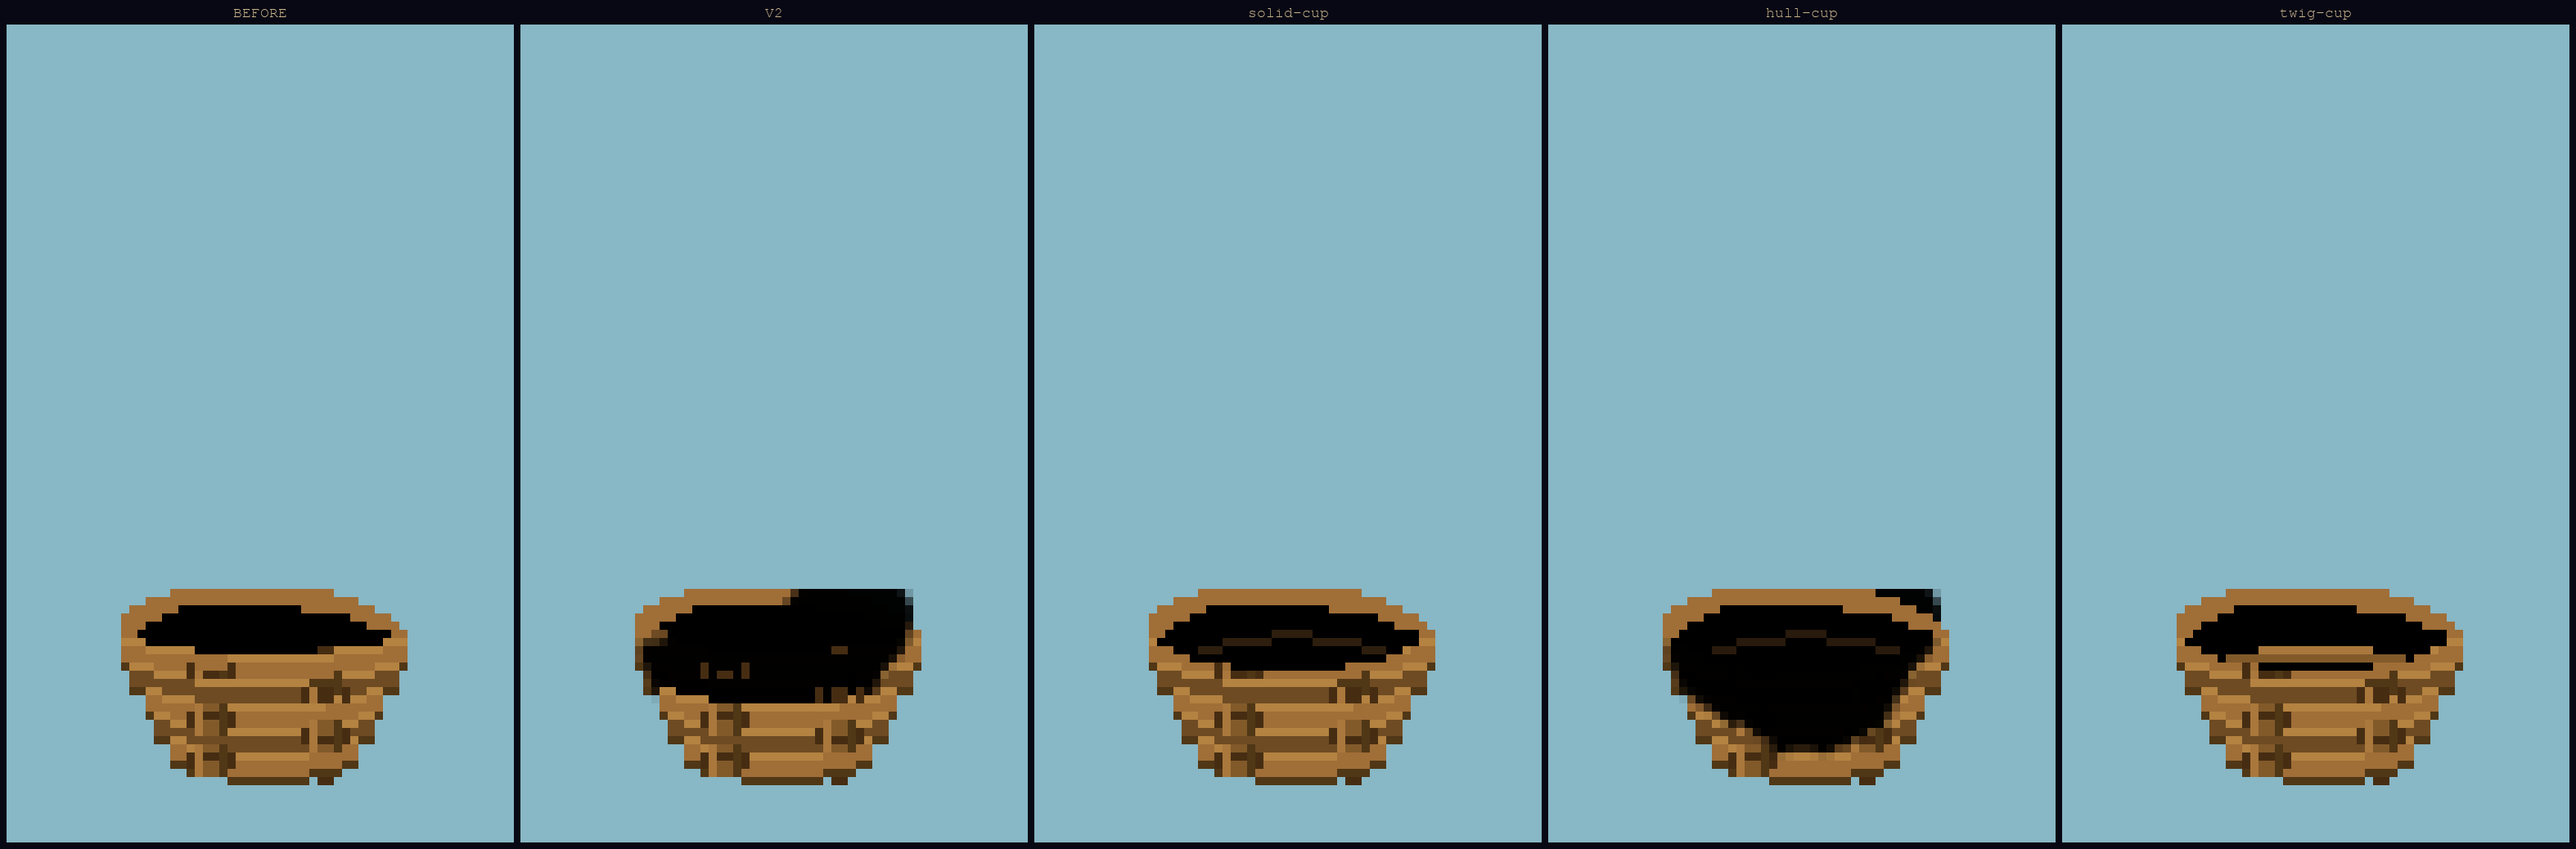
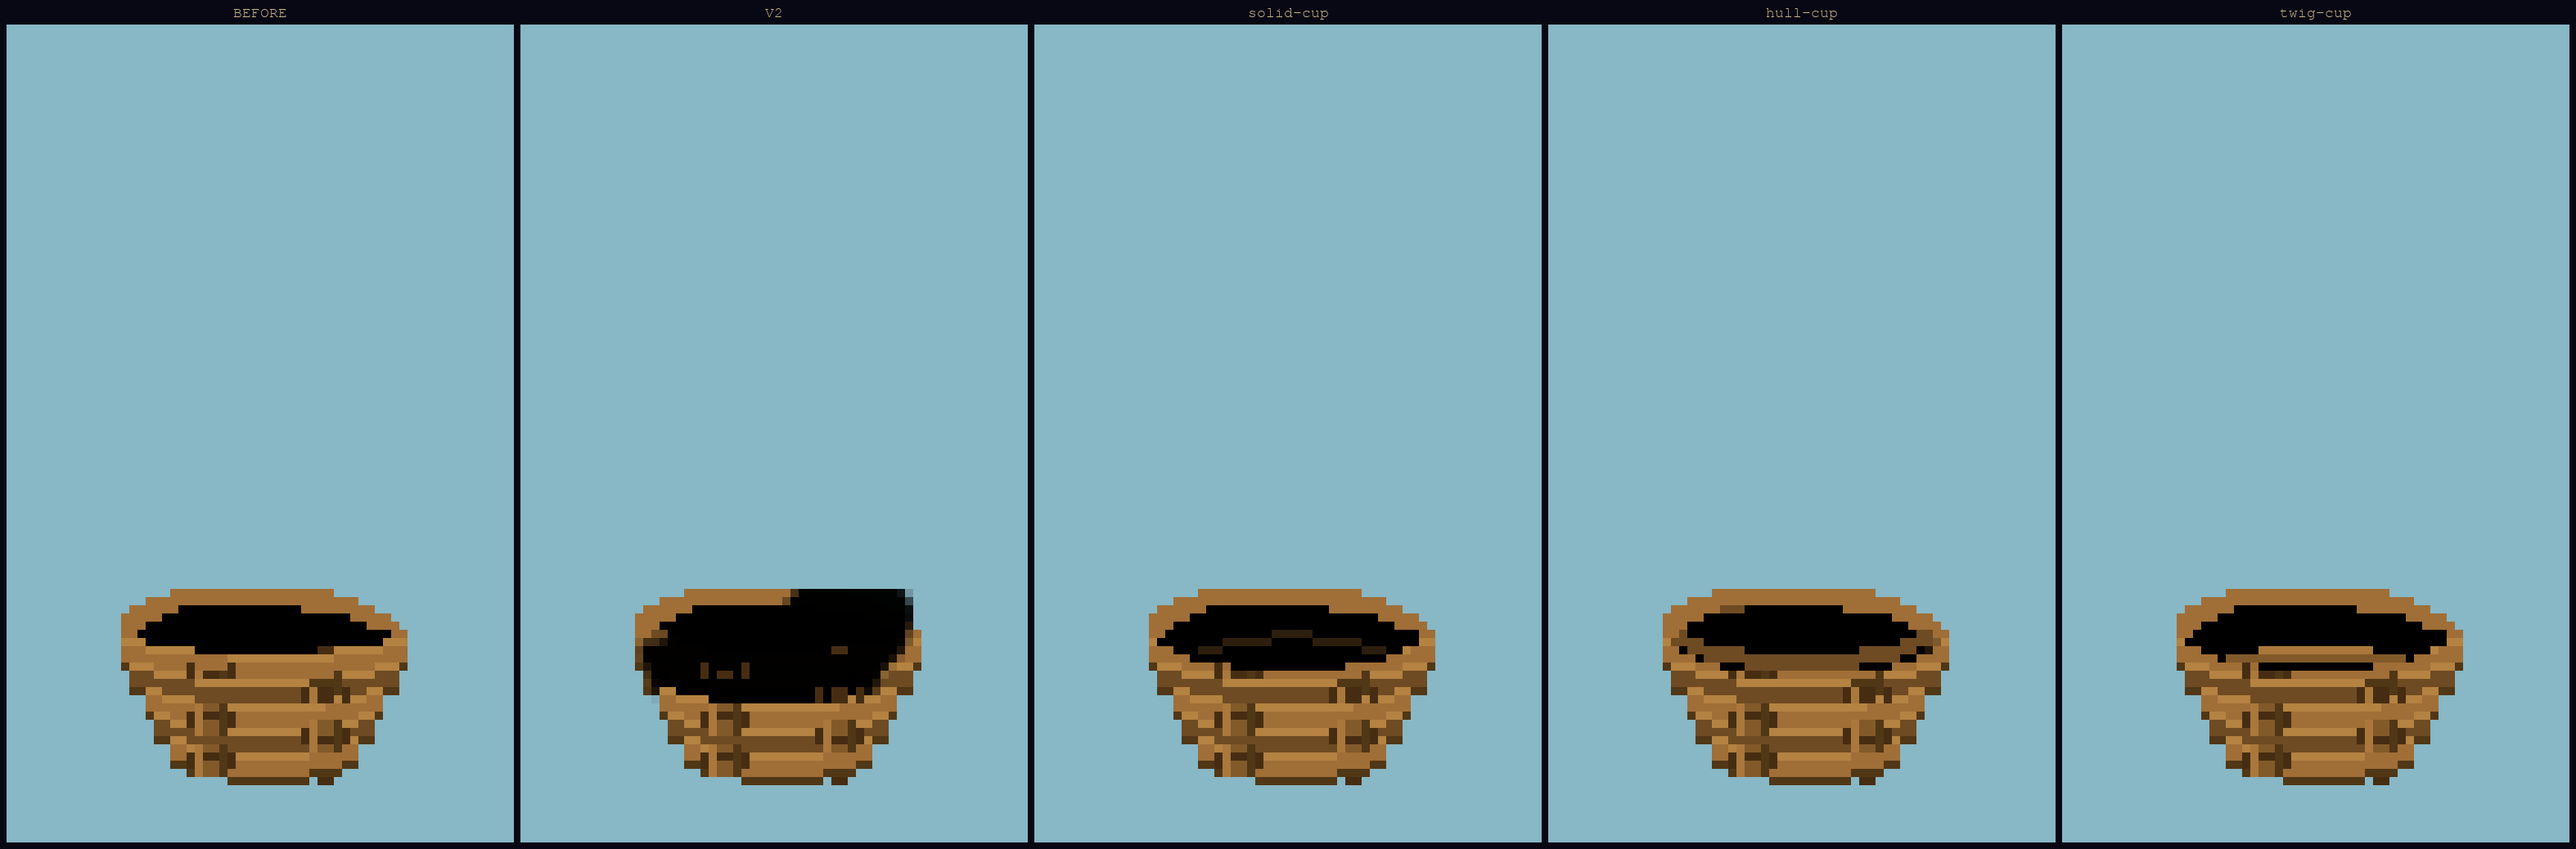
hull-cup: fix top-right gap via per-pixel ellipse clip on bird silhouette
Row-slice only clipped rows above the rim; bird feathering still leaked
outside the ellipse boundary at top-right. Replace with per-pixel alpha
clip so any bird pixel outside the oval is zeroed before blit. Ring drawn
last (ellipse outline + bright arc) fully restores the rim. No crescent.

Claude-Session: https://claude.ai/code/session_01SYxW5bMXxMEcZRx1arfvCN

Changed region(s): [[0.6226, 0.7399, 0.7471, 0.894], [0.716, 0.6782, 0.7783, 0.7399]]

diff --git a/docs/nest-alive-3d/hull-cup/render.py b/docs/nest-alive-3d/hull-cup/render.py
@@ -161,20 +161,25 @@ def draw_slot_v2(surf, cy, alive):
     _nest_notches(surf, cy, courses, stick_wins)
 
 def _stamp_void_hull(surf, cy, rx, ry_off, rw, rh, bird, bw, bh):
-    """Fill ellipse black, blit soft silhouette, restore bright arc, add crescent."""
+    """Black fill, ellipse-clipped bird shadow, full ring drawn last."""
     bx = _NEST_CX - bw // 2; by = cy - bh // 2 + 5
     pygame.draw.ellipse(surf, (0, 0, 0), (rx, cy + ry_off, rw, rh))
-    # All-black bird blit — feathered alpha edges give soft shadow boundary.
+    ecx = rx + rw / 2.0; ecy = cy + ry_off + rh / 2.0
+    ra, rb = rw / 2.0, rh / 2.0
+    # All-black bird clipped per-pixel to ellipse — no feathering leaks outside oval.
     sil = bird.copy()
     arr = pygame.surfarray.pixels3d(sil); arr[:] = 0; del arr
-    top_clip = cy + ry_off; rows_above = max(0, top_clip - by)
-    if 0 < rows_above <= sil.get_height():
-        alp = pygame.surfarray.pixels_alpha(sil); alp[:, :rows_above] = 0; del alp
+    alp = pygame.surfarray.pixels_alpha(sil)
+    for sy in range(sil.get_height()):
+        for sx in range(sil.get_width()):
+            if ((bx + sx - ecx) / ra) ** 2 + ((by + sy - ecy) / rb) ** 2 >= 1.0:
+                alp[sx, sy] = 0
+    del alp
     surf.blit(sil, (bx, by))
-    # Restore top arc — no MID arc (fills interior on flat ellipse).
-    pygame.draw.arc(surf, _NEST_TWIG_BRIGHT, (rx, cy + ry_off, rw, rh), 0, math.pi, 2)
-    # Concavity crescent at lower inner rim for depth.
-    pygame.draw.arc(surf, (40, 26, 12), (rx + 6, cy + ry_off + 5, rw - 12, max(2, rh - 6)), 0, math.pi, 1)
+    # Ring drawn on top of bird: full outline (no arc degenerate fill),
+    # front half overdrawn brighter. Top-right is now fully covered.
+    pygame.draw.ellipse(surf, _NEST_TWIG_MID,    (rx, cy + ry_off, rw, rh), 2)
+    pygame.draw.arc(surf,    _NEST_TWIG_BRIGHT,  (rx, cy + ry_off, rw, rh), 0, math.pi, 2)
 
 
 def draw_slot_after(surf, cy, alive):
